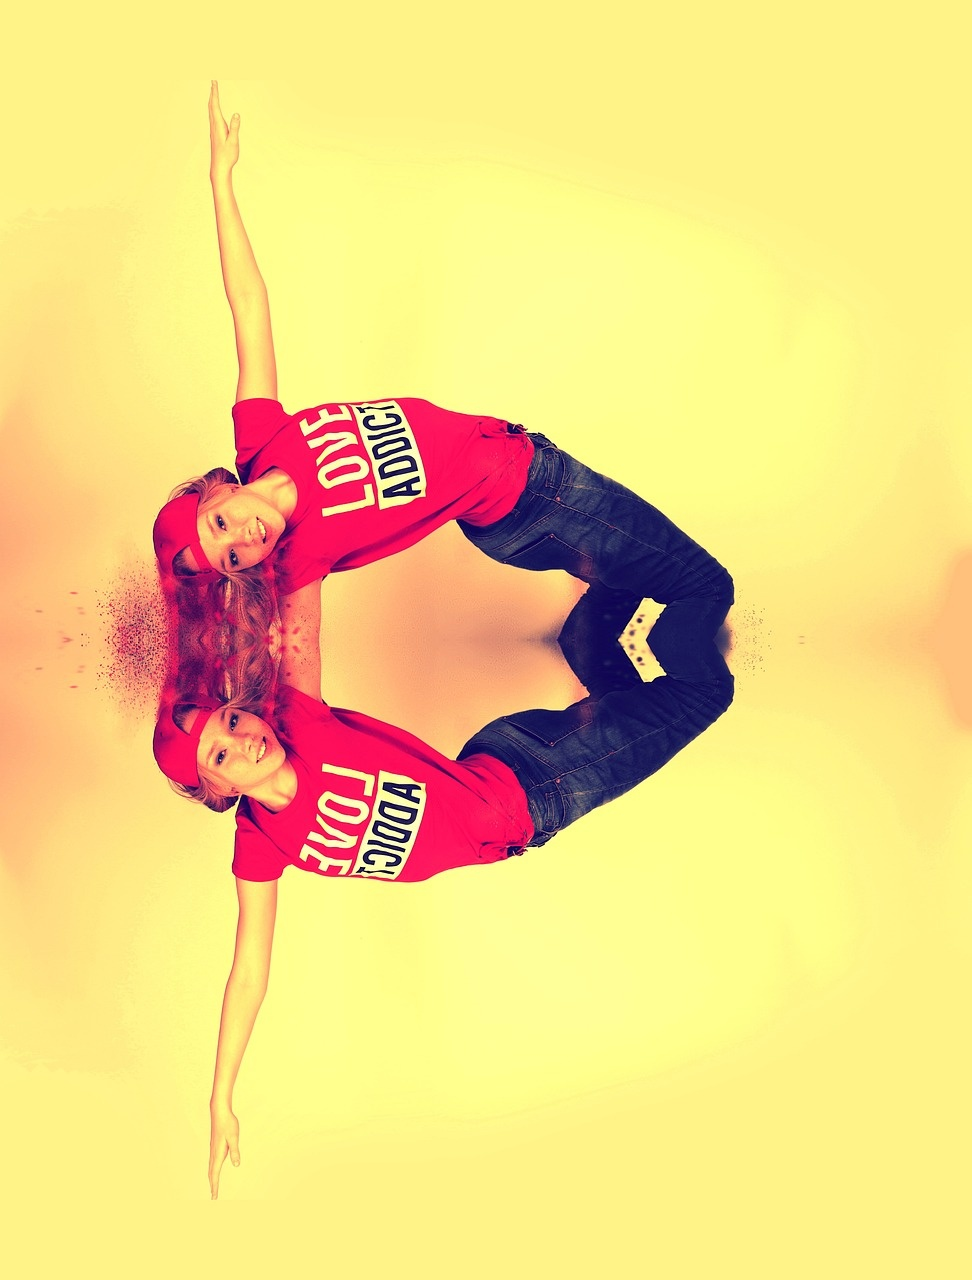
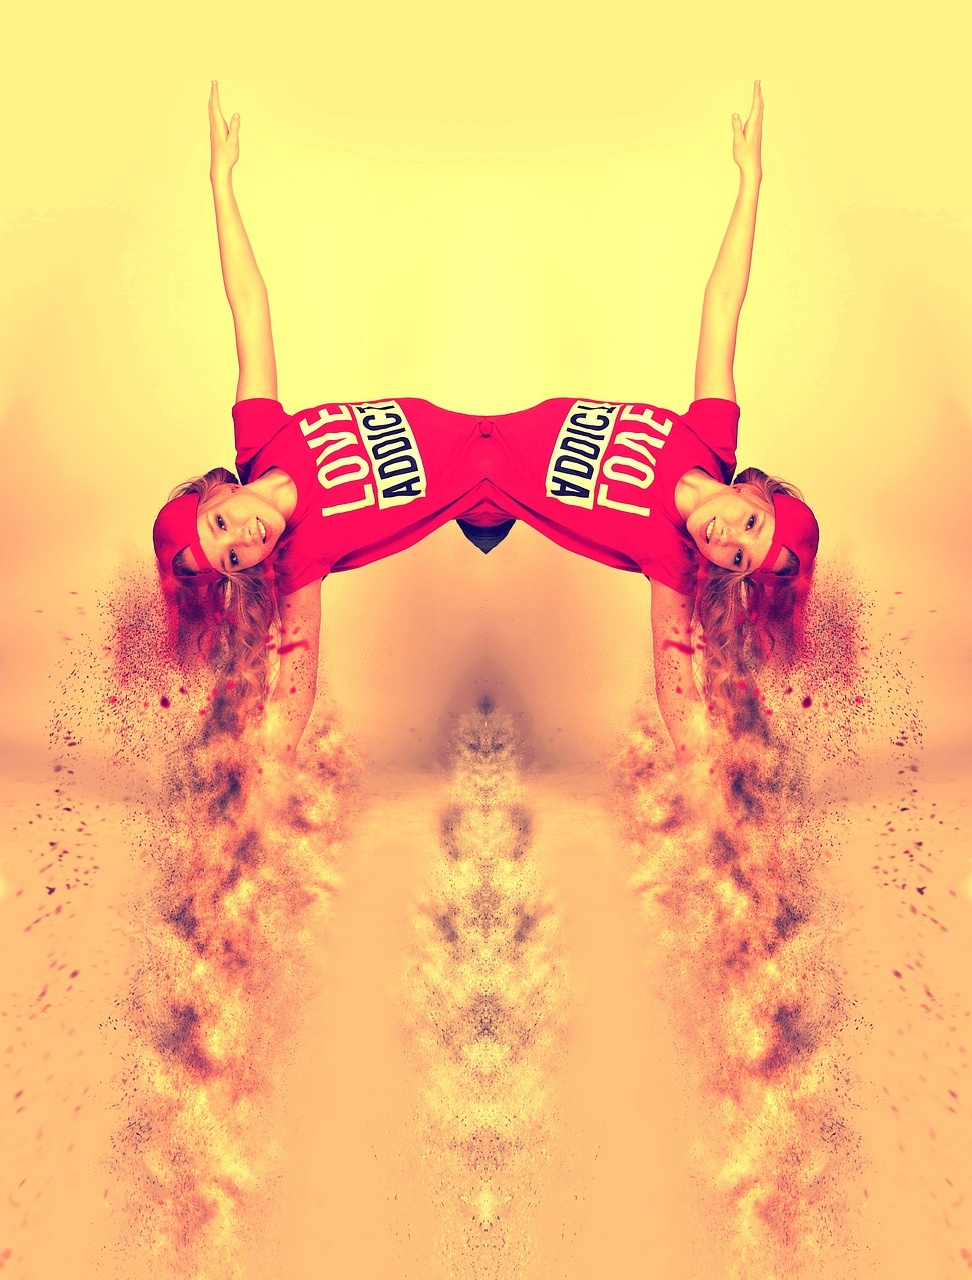
Update exercises 8 and 9

diff --git a/imagenCS2/imagenes.py b/imagenCS2/imagenes.py
@@ -195,7 +195,7 @@ def mirror_image(ruta):
 # copie en la derecha.
 ###########################################################################################
 
-def horizontal_half_mirror_image(ruta):
+def vertical_half_mirror_image(ruta):
     # Cargar la imagen
     imagen = cv2.imread(ruta, cv2.IMREAD_UNCHANGED)
     # Obtener las dimensiones de la imagen original
@@ -205,7 +205,7 @@ def horizontal_half_mirror_image(ruta):
 
     # cv2.imshow('Imagen mitad espejo', imagen)
 
-    save_image(ruta, '_halfmirrorH', imagen)
+    save_image(ruta, '_halfmirrorV', imagen)
 
     # cv2.waitKey(0)
     # cv2.destroyAllWindows()
@@ -218,7 +218,7 @@ def horizontal_half_mirror_image(ruta):
 #  en la inferior, efecto espejo por la horizontal.
 ###########################################################################################
 
-def vertical_half_mirror_image(ruta):
+def horizontal_half_mirror_image(ruta):
     # Cargar la imagen
     imagen = cv2.imread(ruta, cv2.IMREAD_UNCHANGED)
     # Obtener las dimensiones de la imagen original
@@ -228,7 +228,7 @@ def vertical_half_mirror_image(ruta):
 
     # cv2.imshow('Imagen mitad espejo', imagen)
 
-    save_image(ruta, '_halfmirrorV', imagen)
+    save_image(ruta, '_halfmirrorH', imagen)
 
     # cv2.waitKey(0)
     # cv2.destroyAllWindows()

diff --git a/imagenCS2/__init__.py b/imagenCS2/__init__.py
@@ -8,8 +8,8 @@ from imagen2 import *
 # box_color_inverter(r'img\m2.jpg',(400,500),(500,600))
 # resize_image(r'img\m1.jpg')
 # mirror_image(r'img\m2.jpg')
-# horizontal_half_mirror_image(r'img\m2.jpg')
-# vertical_half_mirror_image(r'img\m2.jpg')
+horizontal_half_mirror_image(r'img\m2.jpg')
+vertical_half_mirror_image(r'img\m2.jpg')
 # generate_html(r'img\m2.jpg','index2.html')
 # box_and_text_image(r'img\f2.jpg',(1500,250),(2000,800),(0,0,255),'Ronnie')
 # box_blur_image(r'img\f2.jpg',(1500,250),(2000,800))
